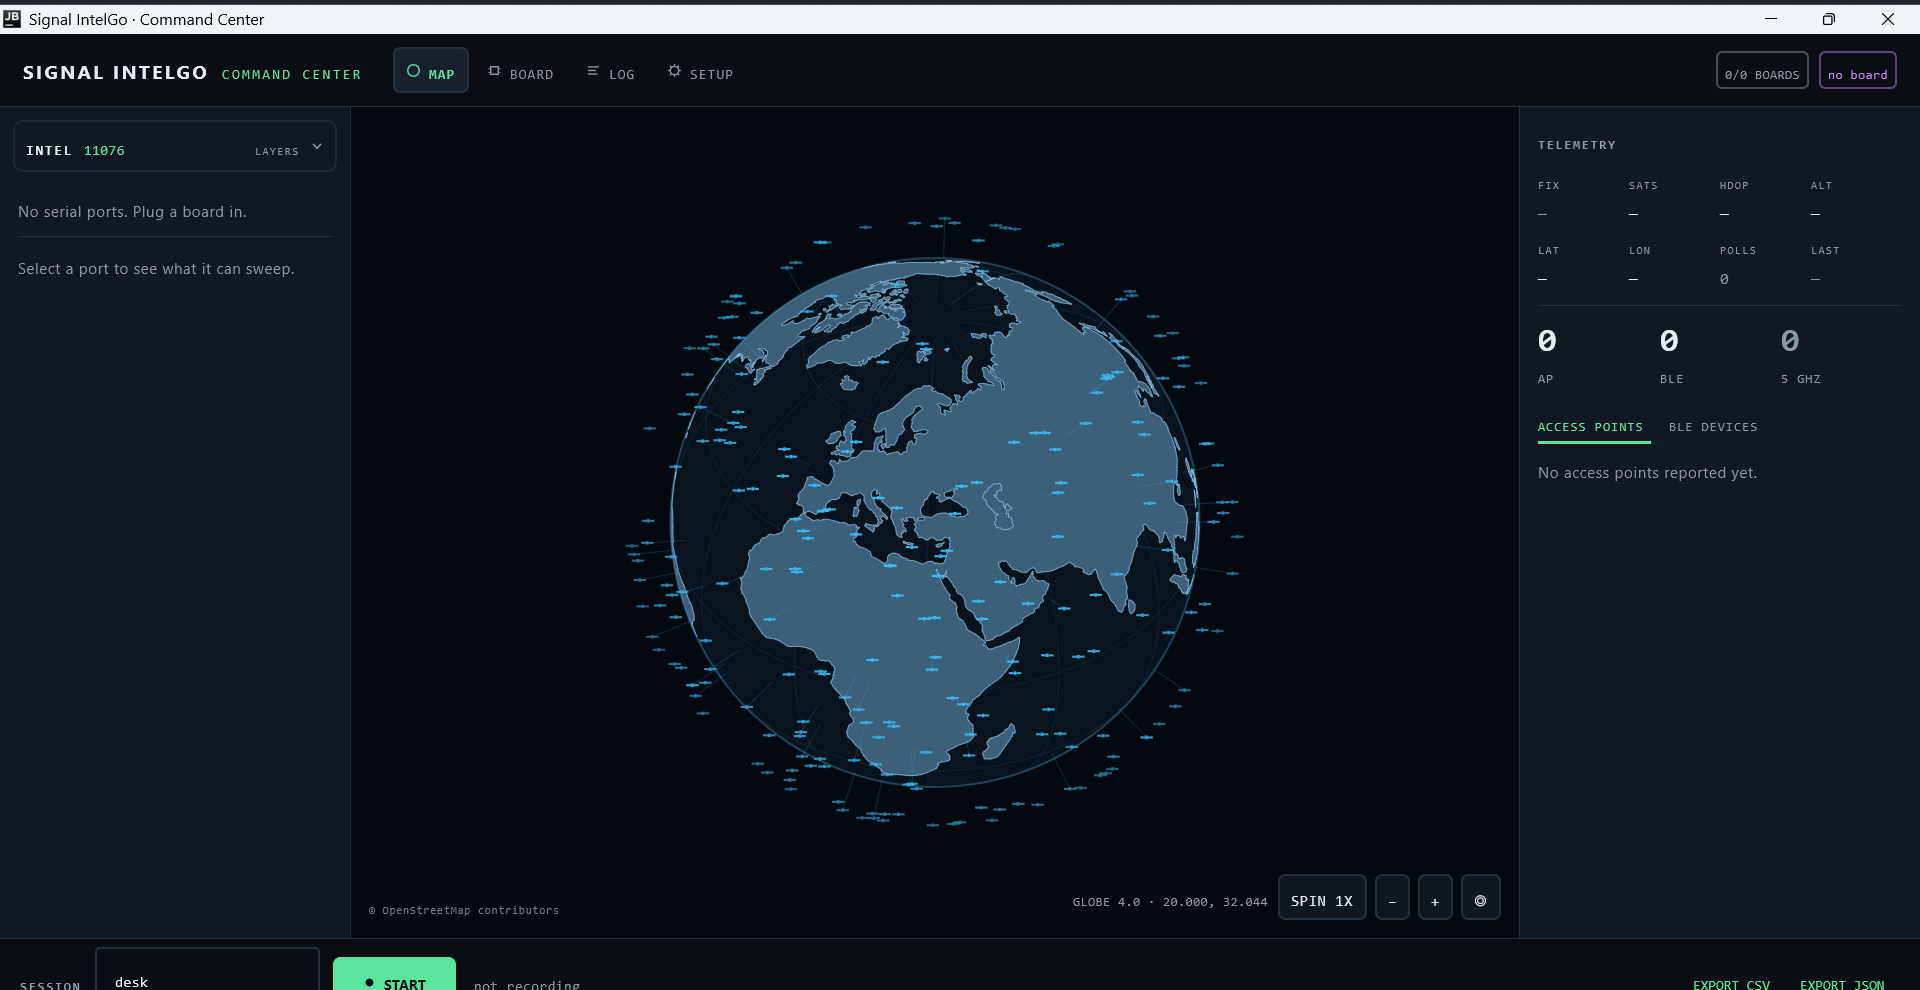
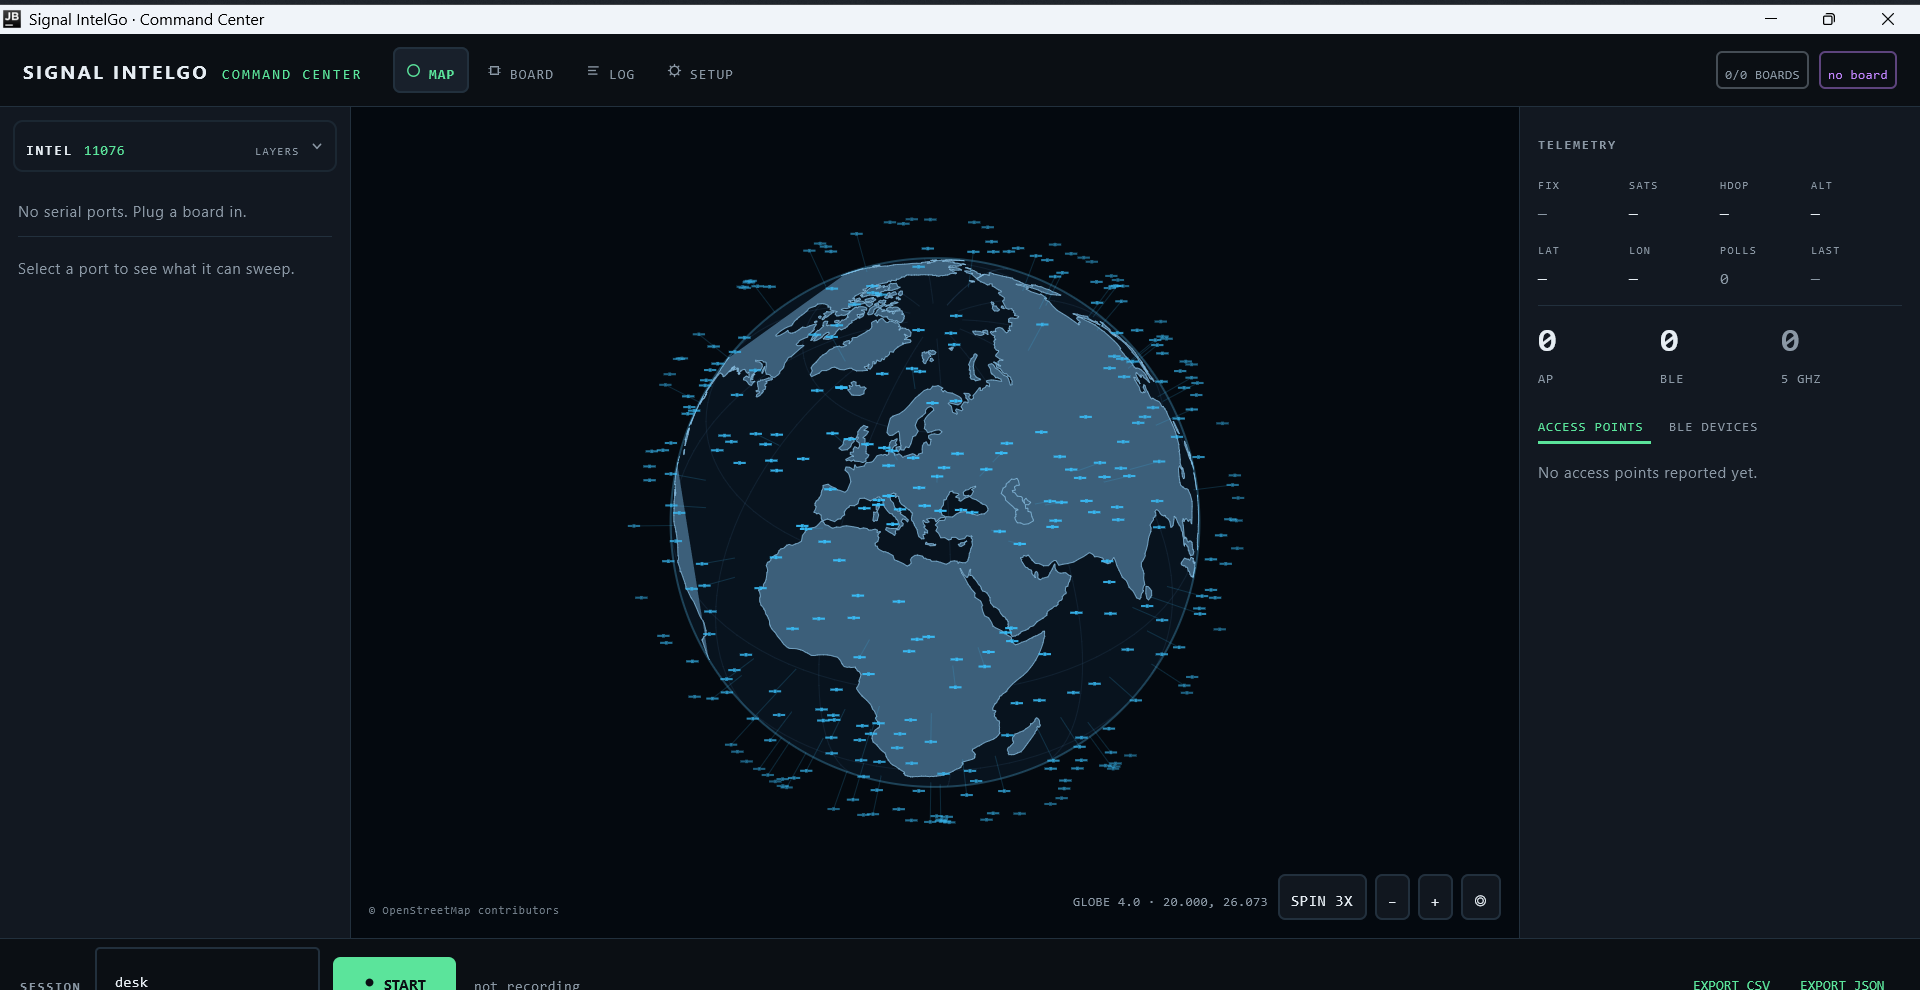
Fill the globe's land with a horizon clip instead of a closure that can flip.
Every previous fill closed a ring somehow - outside the disc, then with an arc along the limb - and
each of those closures flips side when two crossings line up opposite each other. Measured land
coverage jumped 24-27 points between consecutive frames, which is the checkered land/water flash.
The ring is now clipped against the horizon with its real vertices and closed by a straight chord:
no side to choose, so the fill is the same at every camera angle. Land coverage now moves under 2
points per frame across a spin.

Changed region(s): [[0.3438, 0.2121, 0.6562, 0.8485], [0.5625, 0.7576, 0.5938, 0.7879]]

diff --git a/desktop/src/main/java/dev/skyward/rf/desktop/ui/WorldGlobe.kt b/desktop/src/main/java/dev/skyward/rf/desktop/ui/WorldGlobe.kt
@@ -58,6 +58,7 @@ class GlobeInk {
     internal val coast: Path = Path()
     internal var x: FloatArray = FloatArray(512)
     internal var y: FloatArray = FloatArray(512)
+    internal var depth: FloatArray = FloatArray(512)
     internal var front: BooleanArray = BooleanArray(512)
     /**
      * sin/cos of every land vertex, four floats per point. The coastline does not move, so the
@@ -210,10 +211,13 @@ fun DrawScope.drawGlobeWorld(
         coastPath.reset()
         var rx = ink.x
         var ry = ink.y
+        var rd = ink.depth
         var rf = ink.front
         // Far enough past the rim that every closing edge is clipped, close enough that the
         // edge from a crossing point stays within a pixel of the limb.
         val outside = radius * 1.02f
+        // A vertex in front of the camera: past this the projection mirrors, so it is behind.
+        val HORIZON = 0.02f
 
         // The same maths as [project], with the sines taken from the cache and the longitude
         // rotation folded into two constants. The ten thousand coastline vertices are the
@@ -239,39 +243,93 @@ fun DrawScope.drawGlobeWorld(
             if (rx.size < n) {
                 rx = FloatArray(n)
                 ry = FloatArray(n)
+                rd = FloatArray(n)
                 rf = BooleanArray(n)
                 ink.x = rx
                 ink.y = ry
+                ink.depth = rd
                 ink.front = rf
             }
+            var lastCrossX = 0f
+            var lastCrossY = 0f
             var front = 0
-            var lastAngle = 0.0
             for (k in 0 until n) {
                 projectIndexed(tri, k)
-                val dx = pt[0] - center.x
-                val dy = pt[1] - center.y
-                val len = sqrt(dx * dx + dy * dy)
-                val near = pt[2] > 0.02f
-                rf[k] = near
-                if (near) {
-                    rx[k] = pt[0]
-                    ry[k] = pt[1]
-                    front++
-                    if (len > 0.001f) lastAngle = atan2(dy.toDouble(), dx.toDouble())
-                } else {
-                    // Directly behind the centre the direction is undefined, so the previous
-                    // point's angle is reused rather than letting a vertex snap to the middle.
-                    val a = if (len > 0.001f) atan2(dy.toDouble(), dx.toDouble()) else lastAngle
-                    rx[k] = center.x + outside * cos(a).toFloat()
-                    ry[k] = center.y + outside * sin(a).toFloat()
-                }
+                // Screen position and facing of every vertex are kept as they are: the fill clips
+                // the ring against the horizon itself, so it needs the real point rather than one
+                // pushed out past the rim.
+                rx[k] = pt[0]
+                ry[k] = pt[1]
+                rd[k] = pt[2]
+                if (pt[2] > HORIZON) front++
             }
             if (front == 0) continue
+            for (k in 0 until n) rf[k] = rd[k] > HORIZON
 
+            // The land, clipped at the horizon and closed with a straight chord between its two
+            // crossing points.
+            //
+            // Every earlier attempt filled a whole ring and closed it somehow - outside the disc,
+            // then with an arc along the limb - and each of those closures is a choice that flips
+            // side when two crossings line up opposite each other, which is the checkered
+            // land/water flash as the ball turns. A chord makes no such choice: the fill is the
+            // same at every camera angle. The cost is a thin lens of land at the limb left
+            // unfilled, which the limb's own compression hides.
             landPath.reset()
-            landPath.moveTo(rx[0], ry[0])
-            for (k in 1 until n) landPath.lineTo(rx[k], ry[k])
-            landPath.close()
+            if (front == n) {
+                landPath.moveTo(rx[0], ry[0])
+                for (k in 1 until n) landPath.lineTo(rx[k], ry[k])
+                landPath.close()
+            } else {
+                var startIdx = 0
+                while (startIdx < n && rf[startIdx]) startIdx++
+                if (startIdx >= n) startIdx = 0
+                var pen = false
+                var firstX = 0f
+                var firstY = 0f
+                fun crossing(k: Int, m: Int): Float {
+                    val t = (HORIZON - rd[k]) / (rd[m] - rd[k])
+                    lastCrossX = rx[k] + (rx[m] - rx[k]) * t
+                    lastCrossY = ry[k] + (ry[m] - ry[k]) * t
+                    return t
+                }
+                fun emit() {
+                    if (!pen) return
+                    landPath.lineTo(firstX, firstY)
+                    landPath.close()
+                    pen = false
+                }
+                for (step in 0 until n) {
+                    val k = (startIdx + step) % n
+                    val m = (startIdx + step + 1) % n
+                    if (!rf[k]) {
+                        emit()
+                        continue
+                    }
+                    if (!pen) {
+                        if (!rf[(k - 1 + n) % n]) {
+                            // Entering over the limb: start at the crossing, not at the first
+                            // visible vertex, so the chord back closes on the limb itself.
+                            crossing((k - 1 + n) % n, k)
+                            landPath.moveTo(lastCrossX, lastCrossY)
+                            firstX = lastCrossX
+                            firstY = lastCrossY
+                        } else {
+                            landPath.moveTo(rx[k], ry[k])
+                            firstX = rx[k]
+                            firstY = ry[k]
+                        }
+                        pen = true
+                    }
+                    landPath.lineTo(rx[k], ry[k])
+                    if (!rf[m]) {
+                        crossing(k, m)
+                        landPath.lineTo(lastCrossX, lastCrossY)
+                        emit()
+                    }
+                }
+                emit()
+            }
             drawPath(landPath, Color(LAND_MID), alpha = alpha)
 
             // Coastline only where both ends of a segment are genuinely on the near side, so no
